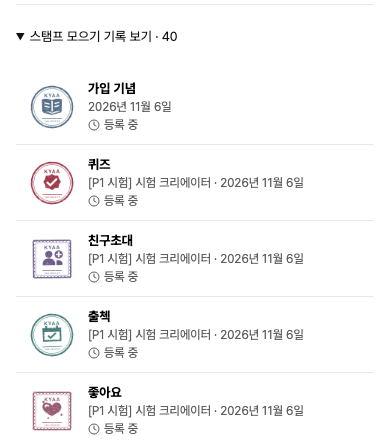
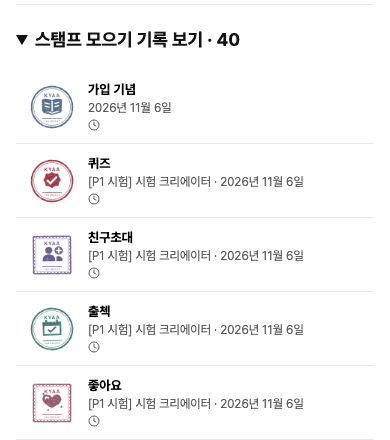
fix(my): strengthen the Stamp record heading and keep the state label for screen readers

diff --git a/apps/web/features/community-stamps/ui/community-stamp-collection.tsx b/apps/web/features/community-stamps/ui/community-stamp-collection.tsx
@@ -118,7 +118,7 @@ function OwnerCollection({ locale, creator, resource, creatorNames }: { locale: 
       </div>}
     </>}
     {message && <p role={failed ? "alert" : "status"} className={`${styles.status} ${failed ? styles.error : ""}`}>{message}</p>}
-    {visible.length > 0 && <details ref={history} className={styles.history} open={historyOpen} onToggle={event => setHistoryOpen(event.currentTarget.open)}><summary>{passportBookText(locale, "communityHistory")} · {visible.length}</summary><ul>{visible.map(stamp => <li key={stamp.id}><button onClick={() => setSelected({ stamp, from: "history" })}><CommunityStampArtwork kind={stamp.kind} locale={locale} size={48} decorative/><span><strong>{communityStampLabel(stamp.kind, locale)}</strong><small>{stamp.celebritySlug && creatorNames?.[stamp.celebritySlug] ? `${creatorNames[stamp.celebritySlug]} · ` : ""}{new Intl.DateTimeFormat(locale, { calendar: "gregory", timeZone:"Asia/Seoul", year:"numeric",month:"short",day:"numeric" }).format(new Date(stamp.issuedAt))}</small><small className={styles.historyState}>{mintPhase(stamp) === "done" ? <Check aria-hidden="true"/> : mintPhase(stamp) === "check" ? <CircleAlert aria-hidden="true"/> : <Clock aria-hidden="true"/>}{mintLabel(stamp, locale)}</small></span></button></li>)}</ul></details>}
+    {visible.length > 0 && <details ref={history} className={styles.history} open={historyOpen} onToggle={event => setHistoryOpen(event.currentTarget.open)}><summary>{passportBookText(locale, "communityHistory")} · {visible.length}</summary><ul>{visible.map(stamp => <li key={stamp.id}><button onClick={() => setSelected({ stamp, from: "history" })}><CommunityStampArtwork kind={stamp.kind} locale={locale} size={48} decorative/><span><strong>{communityStampLabel(stamp.kind, locale)}</strong><small>{stamp.celebritySlug && creatorNames?.[stamp.celebritySlug] ? `${creatorNames[stamp.celebritySlug]} · ` : ""}{new Intl.DateTimeFormat(locale, { calendar: "gregory", timeZone:"Asia/Seoul", year:"numeric",month:"short",day:"numeric" }).format(new Date(stamp.issuedAt))}</small><small className={styles.historyState} title={mintLabel(stamp, locale)}>{mintPhase(stamp) === "done" ? <Check aria-hidden="true"/> : mintPhase(stamp) === "check" ? <CircleAlert aria-hidden="true"/> : <Clock aria-hidden="true"/>}<span className={styles.historyStateLabel}>{mintLabel(stamp, locale)}</span></small></span></button></li>)}</ul></details>}
     {selected && <StampDialog stamp={visible.find(stamp => stamp.id === selected.stamp.id) ?? selected.stamp} locale={locale} close={() => setSelected(null)} showHistory={selected.from === "card" ? () => { setSelected(null); setHistoryOpen(true); setHistoryFocus(count => count + 1); } : undefined}/>}
   </section>;
 }

diff --git a/apps/web/features/community-stamps/ui/community-stamps.module.css b/apps/web/features/community-stamps/ui/community-stamps.module.css
@@ -46,7 +46,7 @@
 @media(prefers-reduced-motion:reduce) { .action { transition:none; } .action:active:not(:disabled) { scale:1; } }
 
 .history {scroll-margin-top:96px;margin-top:20px;border-top:1px solid var(--color-line-subtle);padding-top:12px;}
-.history summary {width:fit-content;min-height:44px;padding:12px 0;font-size:13px;cursor:pointer;}
+.history summary {width:fit-content;min-height:44px;padding:var(--space-3) 0;font-size:var(--fan-section-size);font-weight:var(--fan-section-weight);color:var(--color-ink);cursor:pointer;}
 .history ul {list-style:none;margin:var(--space-2) 0 0;padding:0;display:grid;gap:0;}
 .history button {display:flex;align-items:center;gap:12px;background:transparent;border:0;border-radius:0;padding:12px;width:100%;text-align:left;cursor:pointer;font:inherit;}
 .history strong,.history small {display:block;font-size:13px;}
@@ -68,3 +68,5 @@
 .history button > span { min-width:0; }
 .history .historyState { display:flex; align-items:center; gap:var(--space-1); }
 .historyState svg { width:var(--space-3); height:var(--space-3); flex-shrink:0; }
+
+.historyStateLabel { position:absolute; width:1px; height:1px; padding:0; margin:-1px; overflow:hidden; clip-path:inset(50%); white-space:nowrap; border:0; }

diff --git a/apps/web/features/community-stamps/ui/community-stamp-collection.test.tsx b/apps/web/features/community-stamps/ui/community-stamp-collection.test.tsx
@@ -120,3 +120,12 @@ it("shows the creator display name, not the slug, in the earned history and omit
   view.rerender(<CommunityStampCollection locale="ko" creator="p1-smoke-creator" resource={resource} />);
   expect(view.container.querySelector("details small")?.textContent).not.toContain("p1-smoke-creator");
 });
+
+it("keeps the registration state readable by assistive tech when the record row shows only its icon", () => {
+  const view = render(<CommunityStampCollection locale="ko" creator="elina" resource={mintedResource}/>);
+  const row = within(view.container.querySelector("details")!).getByRole("button", { name: /등록 완료/ });
+  const state = row.querySelector("small[title]")!;
+  expect(state).toHaveAttribute("title", "등록 완료");
+  expect(state.querySelector("svg")).toHaveAttribute("aria-hidden", "true");
+  expect(state).toHaveTextContent("등록 완료");
+});

diff --git a/apps/web/i18n/catalogs/features__community-stamps__ui__community-stamp-collection.ts b/apps/web/i18n/catalogs/features__community-stamps__ui__community-stamp-collection.ts
@@ -465,8 +465,8 @@ export const messages = {
     "vi": "Xem bản ghi đăng ký",
     "th": "ดูบันทึกการลงทะเบียน",
     "pt": "Ver registro",
-    "fr": "Voir la preuve d’enregistrement",
-    ru: "Просмотреть запись о выдаче"
+    "fr": "Voir l’historique d’enregistrement",
+    ru: "Посмотреть запись о регистрации"
 
   },
   "m5b1e0c7a9d31": {
